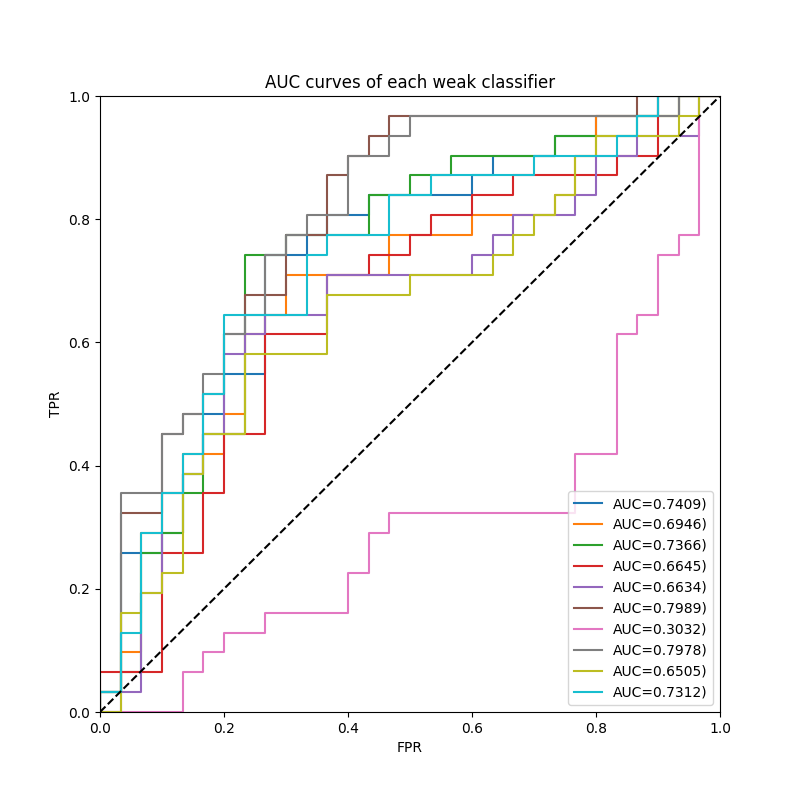
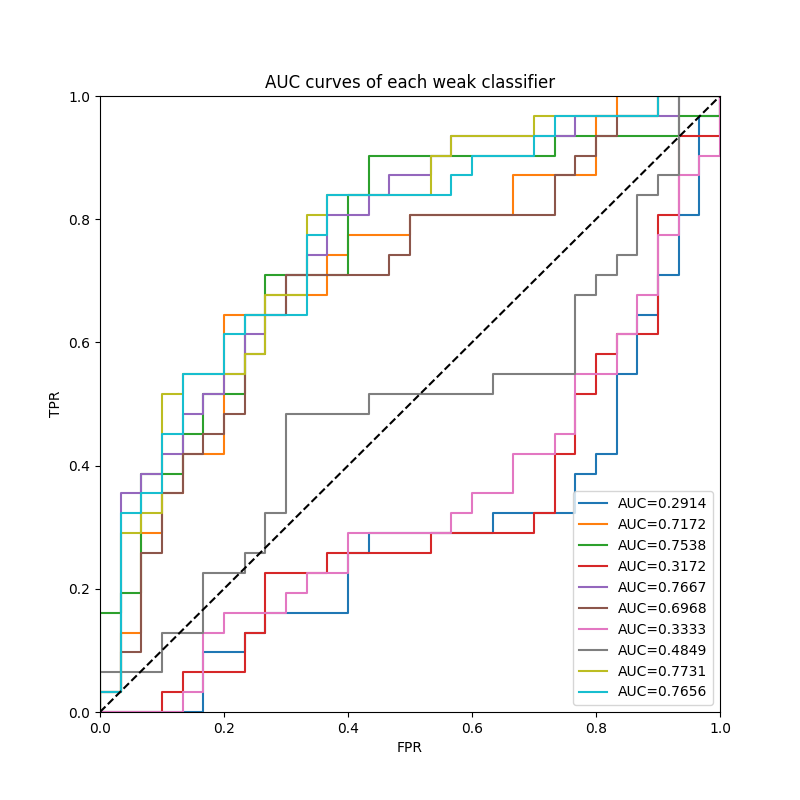
HW3: debug AdaBoost

diff --git a/Homework/HW3/code/src/adaboost.py b/Homework/HW3/code/src/adaboost.py
@@ -28,12 +28,13 @@ class AdaBoostClassifier:
             
             # Train for each epoch
             for epoch in range(num_epochs):
-                learner.zero_grad()
                 outputs = learner(X_train).squeeze()
                 loss = entropy_loss(outputs, y_train)
                 weighted_loss = torch.mean(torch.tensor(self.sample_weights) * loss)
+                
                 weighted_loss.backward()
                 optimizer.step()
+                optimizer.zero_grad()
 
             # Calculate errors and update weights
             with torch.no_grad():
@@ -44,11 +45,20 @@ class AdaBoostClassifier:
                 weighted_error = np.dot(self.sample_weights, incorrect.numpy())
 
                 # Avoid division by zero
-                if weighted_error == 0:
-                    continue
-
+                # if weighted_error == 0:
+                #     continue
+                
                 # Alpha calculation
-                alpha = 0.5 * np.log((1 - weighted_error) / weighted_error)
+                # alpha = 0.5 * np.log((1 - weighted_error) / (weighted_error + 1e-10))
+                
+                print("weighted_error:", weighted_error)
+
+                if weighted_error <= 0 or weighted_error >= 1:
+                    # Large positive or negative value depending on sign
+                    alpha = np.sign(0.5 - weighted_error)
+                else:
+                    alpha = 0.5 * np.log((1 - weighted_error) / (weighted_error + 1e-10))
+                
                 self.alphas.append(alpha)
 
                 # Update weights
@@ -82,7 +92,9 @@ class AdaBoostClassifier:
         
         # Calculate feature importance for each learner
         for learner, alpha in zip(self.learners, self.alphas):
-            importance += np.abs(learner.linear.weight.detach().numpy().squeeze()) * alpha
+            importance += np.abs(learner.linear.weight.detach().numpy().squeeze() * alpha)
+            
+        print("alpha:", self.alphas)
             
         # Average feature importance over all learners
         return importance / len(self.learners)

diff --git a/Homework/HW3/code/main.py b/Homework/HW3/code/main.py
@@ -30,14 +30,13 @@ def main():
 
     # AdaBoost
     clf_adaboost = AdaBoostClassifier(input_dim=X_train.shape[1])
-    _ = clf_adaboost.fit(X_train, y_train, num_epochs=500, learning_rate=0.001)
+    _ = clf_adaboost.fit(X_train, y_train, num_epochs=100, learning_rate=0.001)
     y_pred_probs, y_predictions = clf_adaboost.predict_learners(X_test)
     # Assuming output needs to be binarized
     y_pred_classes = np.sign(y_pred_probs)
     accuracy_ = accuracy_score(y_test, y_pred_classes)
     logger.info(f'AdaBoost - Accuracy: {accuracy_:.4f}')
-    plot_learners_roc(y_preds=y_predictions, y_trues=y_test,
-                      fpath='./AUC_curves/AdaBoost.png')
+    plot_learners_roc(y_preds=y_predictions, y_trues=y_test, fpath='./AUC_curves/AdaBoost.png')
     feature_importance = clf_adaboost.compute_feature_importance()
     plot_feature_importance(feature_importance, feature_names, fpath='./feature_importance/AdaBoost.png')
     # logger.info(f'AdaBoost - Feature Importance: {feature_importance}')

diff --git a/Homework/HW3/code/src/utils.py b/Homework/HW3/code/src/utils.py
@@ -50,7 +50,7 @@ def plot_learners_roc(y_preds: t.List[t.Sequence[float]], y_trues: t.Sequence[in
     for y_pred in y_preds:
         fpr, tpr, _ = roc_curve(y_trues, y_pred)
         roc_auc = auc(fpr, tpr)
-        plt.plot(fpr, tpr, label=f'AUC={roc_auc:.4f})')
+        plt.plot(fpr, tpr, label=f'AUC={roc_auc:.4f}')
     
     # Plot the diagonal line
     plt.plot([0, 1], [0, 1], 'k--')
